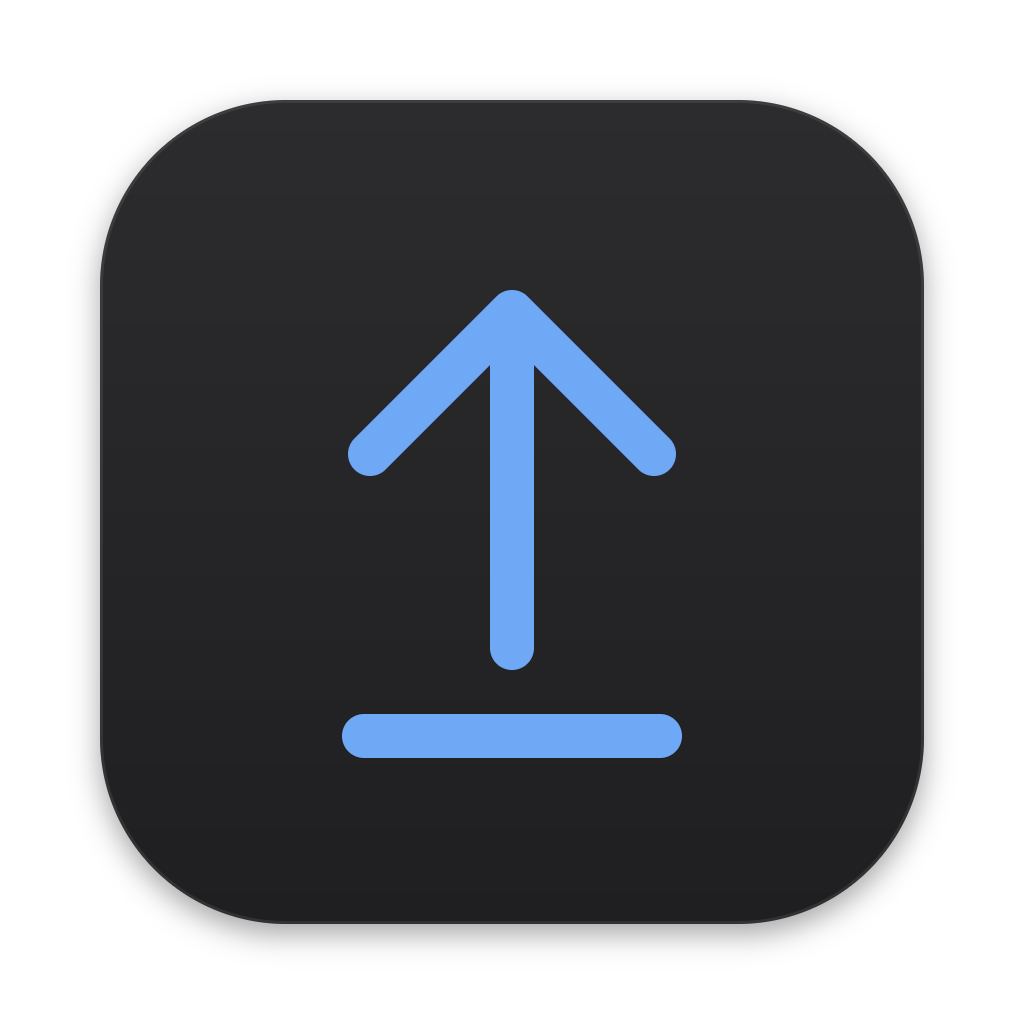
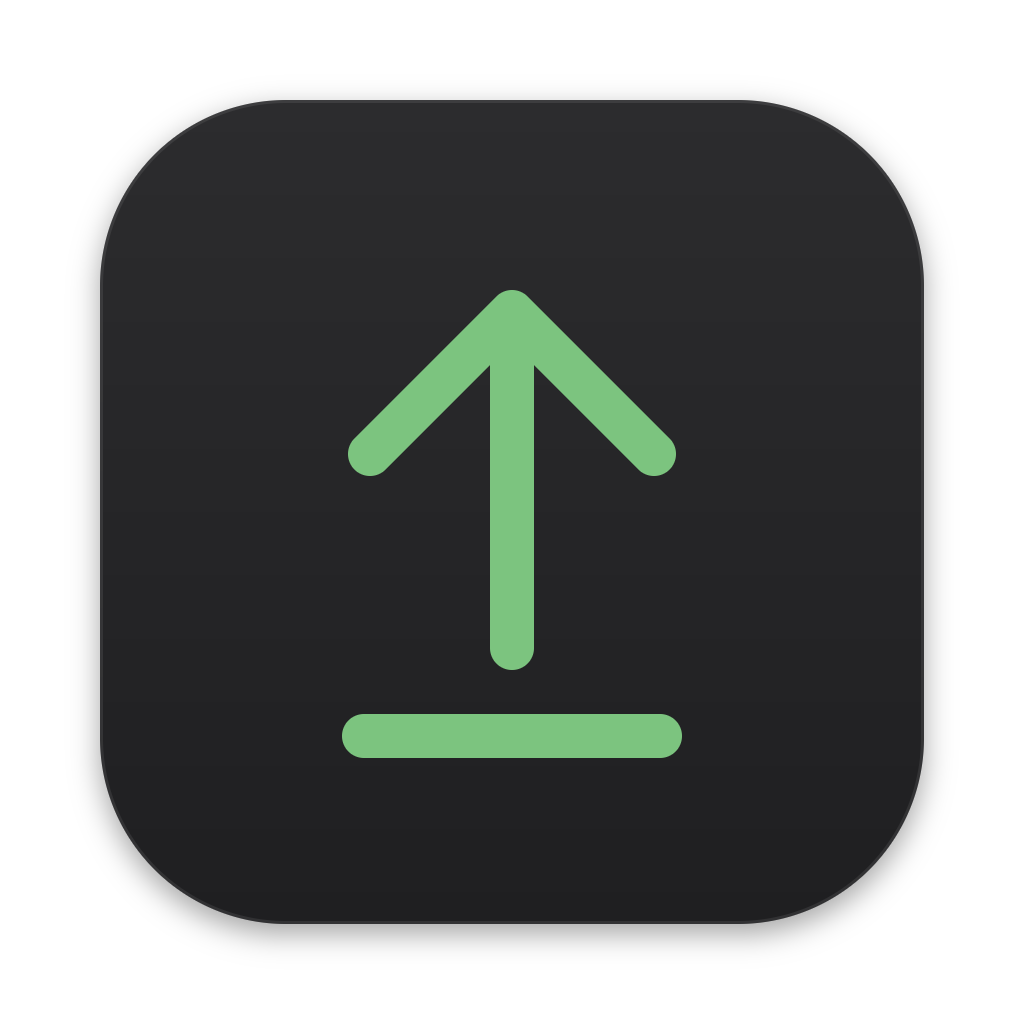
Switch the accent from blue to Upkeep's green
Icon arrow, UI tint, buttons, badges, progress and the widget now use
#7CC47F on graphite, matching the Upkeep icon.

Claude-Session: https://claude.ai/code/session_01TDNCDvUkxLe2yTcVJ4QMxn

Changed region(s): [[0.3438, 0.2812, 0.6562, 0.6562], [0.3125, 0.6875, 0.6875, 0.75]]

diff --git a/Sources/Upnext/ContentView.swift b/Sources/Upnext/ContentView.swift
@@ -56,12 +56,12 @@ struct ContentView: View {
         .frame(minWidth: 580, minHeight: 440)
         .navigationTitle("Upnext")
         .fontDesign(.rounded)
-        .tint(Brand.blue)
+        .tint(Brand.green)
         .preferredColorScheme(.dark)
         .sheet(item: $state.releaseNotesFor) { row in
             ReleaseNotesView(row: row)
                 .fontDesign(.rounded)
-                .tint(Brand.blue)
+                .tint(Brand.green)
                 .preferredColorScheme(.dark)
         }
         .confirmationDialog(
@@ -97,7 +97,7 @@ struct ContentView: View {
                 ProgressView(value: Double(model.checkedCount),
                              total: Double(max(model.checkableCount, 1)))
                     .progressViewStyle(.linear)
-                    .tint(Brand.blue)
+                    .tint(Brand.green)
             }
         }
     }
@@ -120,7 +120,7 @@ struct ContentView: View {
             HStack(spacing: 14) {
                 Image(systemName: "checkmark.seal.fill")
                     .font(.system(size: 30))
-                    .foregroundStyle(Brand.blue)
+                    .foregroundStyle(Brand.green)
                 VStack(alignment: .leading, spacing: 2) {
                     Text("You're all set").font(.system(.headline, design: .rounded))
                     Text("Upnext checked \(model.checkableCount) apps.")
@@ -315,7 +315,7 @@ struct AppRow: View {
             HStack(spacing: 6) {
                 Text(row.app.shortVersion.isEmpty ? row.app.buildVersion : row.app.shortVersion)
                 Image(systemName: "arrow.right").font(.system(size: 9, weight: .bold))
-                Text(update.newVersion).foregroundStyle(Brand.blue).fontWeight(.semibold)
+                Text(update.newVersion).foregroundStyle(Brand.green).fontWeight(.semibold)
                 SourceBadge(source: update.source)
                 if update.releaseNotesHTML != nil || update.releaseNotesURL != nil {
                     Button("Release Notes") { showReleaseNotes(row) }
@@ -343,7 +343,7 @@ struct AppRow: View {
             InstallProgress(phase: phase) { model.cancelInstall(row) }
         case let .installed(version)?:
             Label("Updated to \(version)", systemImage: "checkmark.circle.fill")
-                .foregroundStyle(Brand.blue)
+                .foregroundStyle(Brand.green)
                 .font(.system(.callout, design: .rounded).weight(.medium))
         case .installerOpened?:
             Label("Finish in Installer", systemImage: "shippingbox")
@@ -417,11 +417,11 @@ struct SourceBadge: View {
     var body: some View {
         Text(source.isFromDeveloper ? "Developer" : "Homebrew")
             .font(.system(size: 10, weight: .semibold, design: .rounded))
-            .foregroundStyle(source.isFromDeveloper ? Brand.blue : Color.secondary)
+            .foregroundStyle(source.isFromDeveloper ? Brand.green : Color.secondary)
             .padding(.horizontal, 7)
             .padding(.vertical, 2)
             .background(Capsule().fill(source.isFromDeveloper
-                                       ? Brand.blue.opacity(0.14) : Color.white.opacity(0.08)))
+                                       ? Brand.green.opacity(0.14) : Color.white.opacity(0.08)))
             .help(helpText)
     }
 
@@ -442,9 +442,9 @@ struct InstallProgress: View {
         HStack(spacing: 8) {
             VStack(alignment: .trailing, spacing: 2) {
                 if case let .downloading(fraction) = phase, fraction > 0 {
-                    ProgressView(value: fraction).frame(width: 120).tint(Brand.blue)
+                    ProgressView(value: fraction).frame(width: 120).tint(Brand.green)
                 } else {
-                    ProgressView().progressViewStyle(.linear).frame(width: 120).tint(Brand.blue)
+                    ProgressView().progressViewStyle(.linear).frame(width: 120).tint(Brand.green)
                 }
                 Text(label).font(.caption2).foregroundStyle(.secondary)
             }
@@ -490,7 +490,7 @@ struct SectionTitle: View {
     }
 }
 
-/// The app icon drawn in SwiftUI (Design/AppIcon.svg): graphite tile, blue arrow.
+/// The app icon drawn in SwiftUI (Design/AppIcon.svg): graphite tile, green arrow.
 struct AppLogo: View {
     let size: CGFloat
 
@@ -500,7 +500,7 @@ struct AppLogo: View {
             .fill(LinearGradient(colors: [Brand.graphiteTop, Brand.graphiteBottom],
                                  startPoint: .top, endPoint: .bottom))
             .overlay(shape.strokeBorder(Brand.hairline, lineWidth: 1))
-            .overlay(LogoGlyph().stroke(Brand.blue, style: StrokeStyle(
+            .overlay(LogoGlyph().stroke(Brand.green, style: StrokeStyle(
                 lineWidth: size * 0.053, lineCap: .round, lineJoin: .round)))
             .frame(width: size, height: size)
             .shadow(color: .black.opacity(0.3), radius: 4, y: 2)

diff --git a/Sources/Upnext/Theme.swift b/Sources/Upnext/Theme.swift
@@ -3,12 +3,12 @@ import SwiftUI
 
 /// Colours from the app icon (Design/AppIcon.svg).
 enum Brand {
-    /// The icon's arrow.
-    static let blue = Color(red: 0x6F / 255, green: 0xA8 / 255, blue: 0xF5 / 255)
+    /// The icon's arrow (same green as Upkeep).
+    static let green = Color(red: 0x7C / 255, green: 0xC4 / 255, blue: 0x7F / 255)
     /// The icon's tile, top and bottom.
     static let graphiteTop = Color(red: 0x2C / 255, green: 0x2C / 255, blue: 0x2E / 255)
     static let graphiteBottom = Color(red: 0x1F / 255, green: 0x1F / 255, blue: 0x21 / 255)
-    /// Dark text on blue buttons (white on this blue is too low-contrast).
+    /// Dark text on green buttons (white on this green is too low-contrast).
     static let ink = Color(red: 0x0B / 255, green: 0x14 / 255, blue: 0x22 / 255)
 
     static let cardFill = Color.white.opacity(0.045)
@@ -85,7 +85,7 @@ extension View {
 
 // MARK: - Button styles
 
-/// Rounded pill button. Prominent = the icon's blue; otherwise frosted glass.
+/// Rounded pill button. Prominent = the icon's green; otherwise frosted glass.
 struct PillButtonStyle: ButtonStyle {
     var prominent = false
 
@@ -106,7 +106,7 @@ struct PillButtonStyle: ButtonStyle {
                 .padding(.vertical, 5)
                 .background(
                     Capsule(style: .continuous)
-                        .fill(prominent ? AnyShapeStyle(Brand.blue) : AnyShapeStyle(Color.white.opacity(0.09)))
+                        .fill(prominent ? AnyShapeStyle(Brand.green) : AnyShapeStyle(Color.white.opacity(0.09)))
                 )
                 .overlay(
                     Capsule(style: .continuous)
@@ -119,7 +119,7 @@ struct PillButtonStyle: ButtonStyle {
     }
 }
 
-/// Plain blue text, like a link.
+/// Plain green text, like a link.
 struct LinkButtonStyle: ButtonStyle {
     func makeBody(configuration: Configuration) -> some View {
         LinkBody(configuration: configuration)
@@ -131,7 +131,7 @@ struct LinkButtonStyle: ButtonStyle {
 
         var body: some View {
             configuration.label
-                .foregroundStyle(Brand.blue)
+                .foregroundStyle(Brand.green)
                 .opacity(isEnabled ? (configuration.isPressed ? 0.6 : 1) : 0.4)
                 .contentShape(Rectangle())
                 .pointingHandCursor(isEnabled)

diff --git a/Sources/UpnextWidget/UpnextWidget.swift b/Sources/UpnextWidget/UpnextWidget.swift
@@ -226,12 +226,12 @@ struct AppIconImage: View {
     }
 }
 
-/// The app icon (Design/AppIcon.svg) drawn small: graphite tile, blue arrow
+/// The app icon (Design/AppIcon.svg) drawn small: graphite tile, green arrow
 /// over a baseline.
 struct LogoMark: View {
     let size: CGFloat
 
-    static let glyphColor = Color(red: 0x6F / 255, green: 0xA8 / 255, blue: 0xF5 / 255)
+    static let glyphColor = Color(red: 0x7C / 255, green: 0xC4 / 255, blue: 0x7F / 255)
 
     var body: some View {
         RoundedRectangle(cornerRadius: size * 0.226, style: .continuous)

diff --git a/Sources/Upnext/UpnextApp.swift b/Sources/Upnext/UpnextApp.swift
@@ -33,7 +33,7 @@ struct UpnextApp: App {
         Settings {
             SettingsView().environmentObject(model)
                 .fontDesign(.rounded)
-                .tint(Brand.blue)
+                .tint(Brand.green)
                 .preferredColorScheme(.dark)
         }
     }

diff --git a/scripts/make-icon.py b/scripts/make-icon.py
@@ -17,7 +17,7 @@ BORDER_ALPHA, BORDER_W = 0.08, 3.0
 SHADOW_ALPHA, SHADOW_SIGMA, SHADOW_DY = 0.35, 14.0, 10.0
 
 # Glyph: stroked polylines with round caps and joins
-GLYPH = (0x6F, 0xA8, 0xF5)
+GLYPH = (0x7C, 0xC4, 0x7F)
 STROKE = 44.0
 POLYLINES = [
     [(512, 648), (512, 312)],               # shaft
